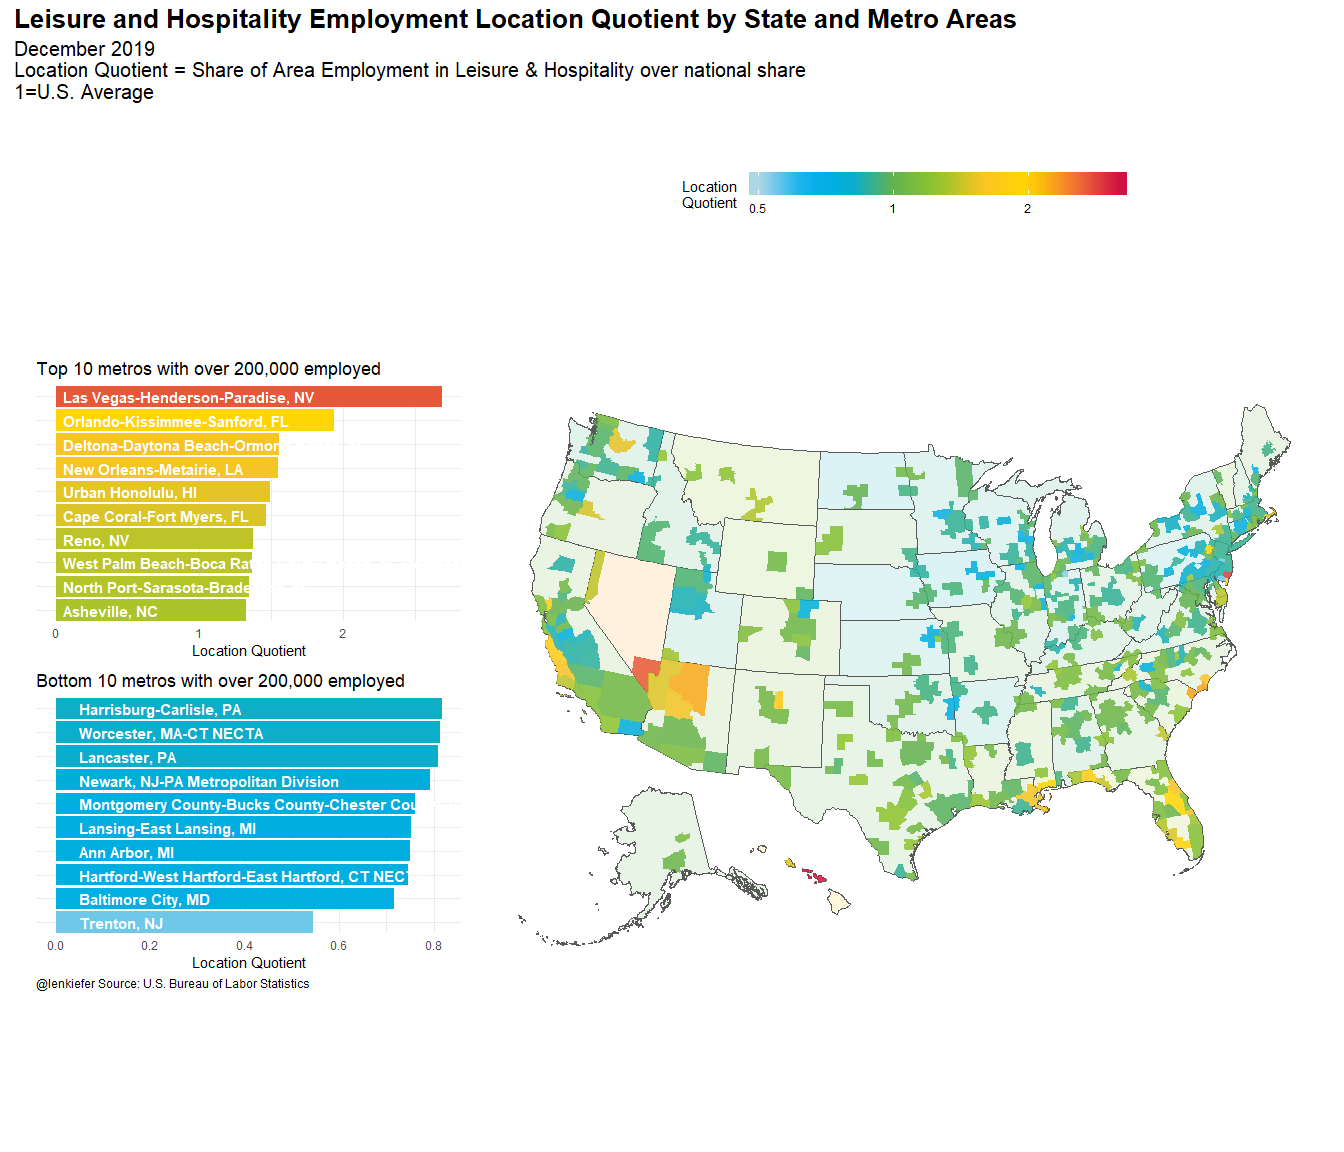
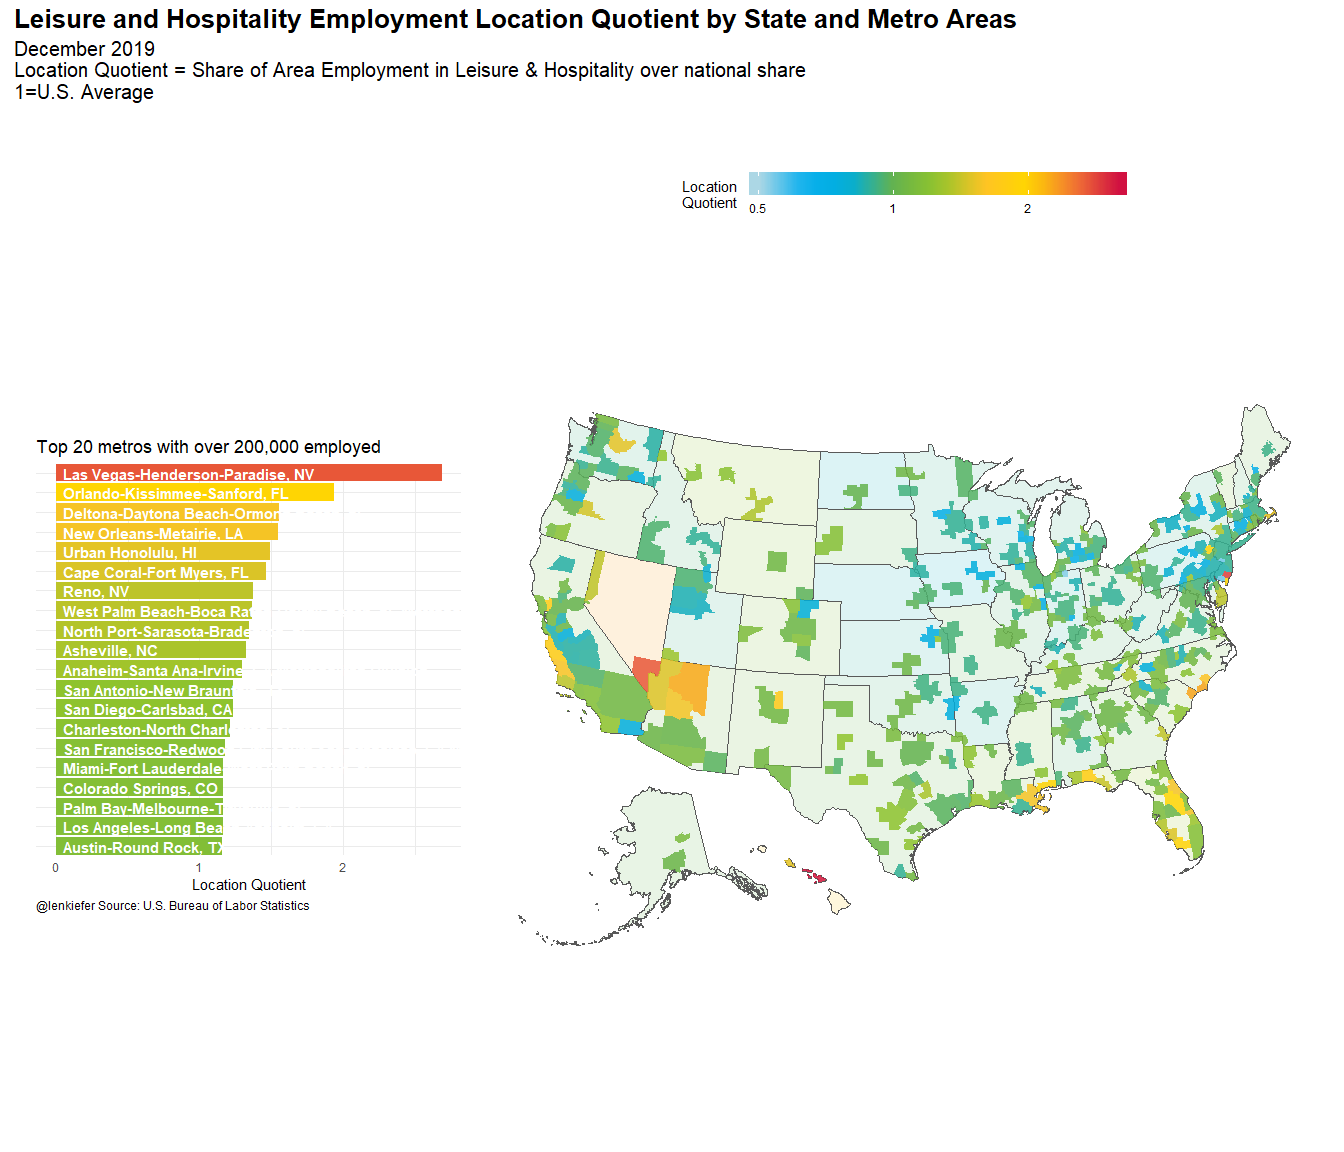
lq map3

Changed region(s): [[0.0312, 0.3125, 0.3438, 0.875]]

diff --git a/2020/02/29/location-quotient-map/index.html b/2020/02/29/location-quotient-map/index.html
@@ -454,10 +454,10 @@ left_join (  filter(cbsa_sf,!is.na(CBSA_Code))%&gt;% mutate(area_code=as.integer
 
 
 ###########################################
-# bar chart top 5 metros----
+# bar chart top 20 metros----
 ###########################################
 
-gtop &lt;-dt_sm4[!is.na(lq),][industry_code==0][value&gt;200,][order(-lq),][1:10,]%&gt;%
+gtop &lt;-dt_sm4[!is.na(lq),][industry_code==0][value&gt;200,][order(-lq),][1:20,]%&gt;%
   left_join(sm_area,by=&quot;area_code&quot;) %&gt;%
   mutate(namef=fct_reorder(factor(area_name),lq)) %&gt;%
   ggplot(aes(x=namef,y=lq,fill=log(lq)))+
@@ -477,12 +477,12 @@ gtop &lt;-dt_sm4[!is.na(lq),][industry_code==0][value&gt;200,][order(-lq),][1:10
   theme(legend.position=&quot;none&quot;,
         plot.caption=element_text(hjust=0))+
   labs(y=&quot;Location Quotient&quot;,x=&quot;&quot;,
-       title=&quot;Top 10 metros with over 200,000 employed&quot;
+       title=&quot;Top 20 metros with over 200,000 employed&quot;
        )
 
 
 ###########################################
-# bar chart bottom 5 metros----
+# bar chart bottom 10 metros----
 ###########################################
 
 gbottom &lt;-dt_sm4[!is.na(lq),][industry_code==0][value&gt;200,][order(lq),][1:10,]%&gt;%
@@ -512,19 +512,19 @@ gbottom &lt;-dt_sm4[!is.na(lq),][industry_code==0][value&gt;200,][order(lq),][1:
 ###########################################
 
 layout &lt;- &quot;
-##CCCC
-AACCCC
-AACCCC
-BBCCCC
-BBCCCC
-##CCCC
+##BBBB
+AABBBB
+AABBBB
+##BBBB
 &quot;
 
 ###########################################
 # make composite plot  ----
 ###########################################
 
-gtop+ gbottom+labs(caption=&quot;@lenkiefer Source: U.S. Bureau of Labor Statistics&quot;)+
+gtop+ 
+  #gbottom+
+  labs(caption=&quot;@lenkiefer Source: U.S. Bureau of Labor Statistics&quot;)+
   plot_annotation( title=&quot;Leisure and Hospitality Employment Location Quotient by State and Metro Areas&quot;,
                    subtitle=&quot;December 2019\nLocation Quotient = Share of Area Employment in Leisure &amp; Hospitality over national share\n1=U.S. Average&quot;,
                    
